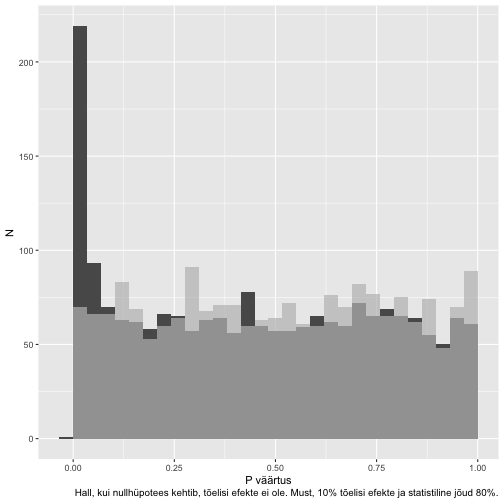
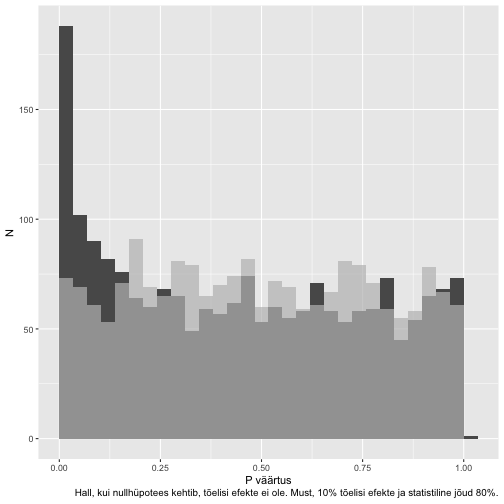
tõlge umbes poole peal

diff --git a/index.html b/index.html
@@ -12,7 +12,7 @@
 class: center, middle, inverse, title-slide
 
 # Oomikaeksperimentide kvaliteedi hindamine P väärtuste põhjal
-## e. Teadustegevuse jääkides sobramas
+## e. teadustegevuse jääkides sobramas
 ### Taavi Päll
 ### 26. mai 2018
 
@@ -20,6 +20,12 @@ class: center, middle, inverse, title-slide
 
 
 
+
+class: inverse, middle, center
+
+# Sissejuhatus
+
+---
 
 ## Müra vs signaal
 
@@ -33,30 +39,53 @@ class: center, middle, inverse, title-slide
 
 ## Top table
 
-- Oomika eksperimendid jõuavad teaduspublikatsioonidesse peamiselt nn. *top* tabelitena artikli lisades, kus on välja toodud mingi väike hulk enim muutunud tunnuseid/geene    
+- Seoses teaduspublikatsioonide kallutatusega, kus teavitatakse ainult nn "edukatest" eksperimentidest, presenteeritakse ka oomika eksperimente teaduspublikatsioonides peamiselt nn. *top* tabelitena artikli lisades, kus on välja toodud mingi väike hulk enim muutunud tunnuseid/geene või geene mida teadlased on suutnud mingilgi moel interpreteerida ja oma mudelisse sobitada
 
 - Peamiseks tulemuseks on üks-kaks geeni, mis on "edukalt" läbinud ka valideerimise ortogonaalsetes katsetes    
 
 --
 
-- Tundub huvitav.., kas tasuks replitseerida&lt;sup&gt;1&lt;/sup&gt;? 
+- Tulemused tunduvad huvitavad..., kas tasuks replitseerida&lt;sup&gt;1&lt;/sup&gt;? 
+- Kuidas hinnata sellise eksperimendi kvaliteeti, kus on testitud paralleelselt tuhandeid hüpoteese?
+
 
 .footnote[[1] Replitseerimine -- uute andmete korjamine kontrollimaks teaduslikke väiteid. Reprodutseerimine keskendub eelkõige andmete analüüsi korratavus. Reprodutseeritavus toetab, kuid ei taga teaduslike väidete paikapidavust.]
 
 ---
 
-## 
+## QC checklist
 
-- This makes it desirable to first estimate in silico, which studies are worth replicating in the lab, and how to best replicate them
+- Reprodutseeritavus: kas andmed on reanalüüsiks kasutatavad   
+
+- Vastavus (NIH GEO) andmebaasi deponeerimise reeglitega?     
+
+- Kui palju (GEO) andmesette sisaldab ka P väärtuste tabeleid?     
+
+- P histogrammid – kui palju katseid on hästi/halvasti disainitud või analüüsitud?
 
 ---
 
-## QC checklist
+class: inverse, middle, center
 
-- Reprodutseeritavus: kas andmed on reanalüüsiks kasutatavad
-- Vastavus NIH GEO andmebaasi deponeerimise reeglitega?
-- Kui palju GEO andmesette sisaldab ka P väärtuste tabeleid?
-- P histogrammid – kui palju katseid on hästi/halvasti disainitud või analüüsitud?
+# P väärtused
+
+---
+
+## P väärtused on ühtlase jaotusega
+
+- P väärtused on disainitud olema ühtlase jaotusega, selleks et kontrollida valepositiivsete arvu ehk tüüp 1 viga
+
+--
+
+- Juhuslike P väärtuste jaotus tuleneb [järgmisest seosest](https://stats.stackexchange.com/questions/10613/why-are-p-values-uniformly-distributed-under-the-null-hypothesis#10617), tingimusel kui T on juhuslik muutuja kumulatiivse jaotusega `\(F(T) \equiv Pr(T&lt;t)\)` kõigi t väärtuste korral ja F on pööratav:
+
+`$$Pr(P&lt;p) = Pr(F(T)&lt;p) = Pr(T&lt;F^{-1}(p)) = F(F^{-1}(p)) = p$$`
+
+--
+
+- Ühtlase jaotuse eeldused:
+      - nullhüpotees kehtib
+      - tegemist on pideva jaotusega
 
 ---
 
@@ -64,11 +93,6 @@ class: center, middle, inverse, title-slide
 
 &lt;img src="index_files/figure-html/unnamed-chunk-1-1.png" style="display: block; margin: auto;" /&gt;
 
-???
-
-Ühtlane jaotus 0 ja 1 vahel sisaldab nö null p väärtuseid.
-
-That peak close to 0 is where your alternative hypotheses live- along with some potential false positives. If we split this up into nulls and alternatives, it might look like this:
 
 ---
 
@@ -86,65 +110,87 @@ Image credit: [Variance explained](http://varianceexplained.org/statistics/inter
 
 ---
 
+background-image: url(img/ncbi-geo.png)
+background-size: cover
+class: middle, center
+
+
+# Sekveneerimisandmed NIH Entrez andmebaasis
+
+---
+
 ## HT-seq andmekogude arv NIH andmebaasis kasvab kiiresti
 
-- We queried the NCBI GEO database for "expression profiling by high throughput sequencing"
-- Query retrieved 13575 datasets, first set was published at 2017-06-19
-- 68% of GEO data sets (9194) contain data from mouse or human origin
-- 88% of human and mouse data sets are linked to their primary publication. 
-- The proportion of datasets with publications is lower when other taxa are used as model organisms 78%
+- Me otsisime NCBI GEO andmebaasist andmesette kasutatdes otsingusõna "expression profiling by high throughput sequencing"
+- Tulemuseks leidsime 13575 andmekogu, millest esimene publitseeriti 2017-06-19
+- 68% GEO andmekogudest (9194) sisaldavad inimese või hiire järjestusi
 
-&lt;img src="img/fig1.png" width="50%" style="display: block; margin: auto;" /&gt;
+&lt;img src="img/fig1.png" width="60%" style="display: block; margin: auto;" /&gt;
 
 ---
 
-For the human and mouse subset, we were able to identify supplementary files for 100% (13560) of GEO series.
-The data sets lacking public supplementary files nevertheless show 73% publication rate (95%CI, 44.9% to 92.2%) which is similar to data sets with supplementary files.
+## GEO andmebaasi reeglid
+
+- GEO arhiivil on kolm kohustuslikku komponenti: 
+      1. metaandmed, 
+      1. protsessitud andmed 
+      1. toorandmed
+
+- Protsessitud andmed sisaldavad minimaalselt näiteks kas toor või normaliseeritud sekventside arvu, või ChIP-Seq eksperimentide korral nn. piigifaile (peak files)
 
 ---
 
-## Compliance with GEO database submission requirements
+## Publitseerimine ja lisafailid
 
-- GEO archive has three required components: 
-      1. metadata, 
-      1. processed data, and 
-      1. raw data. 
+- 88% inimese või hiire andmekogudest on seotud ka primaarse publikatsiooniga 
+      - Teiste mudelorganismide puhul on see protsent mõnevõrra madalam: 78%
+      
+- Peaaegu kõik GEO andmekogud (13560/13575) sisaldavad lisafaile (supplementary files)
 
-- Minimally, processed files are required to contain raw or normalized sequence read counts, or peak files of ChIP-Seq data
+- Neid väheseid andmekogusid, millel puuduvad ülesse laaditud lisafailid, publitseeritakse vaatamata sellele küllalt hästi 73% publication rate (95%CI, 44.9% to 92.2%) which is similar to data sets with supplementary files.
 
----
-
-## Most common file names 
-
-- 'RAW.tar' archive and associated automatically generated 'filelist.txt' are the most common files
-- 'RAW.tar' archive contains one file per sample and samples can be directly mapped to metadata by using sample name
-- Other common files contain annotations, 'readme.txt' and processed data: commonly sequence read counts, gene expression analysis results or ChIP-Seq peak counts.
-
-&lt;img src="img/fig2.png" width="60%" style="display: block; margin: auto;" /&gt;
 
 ---
 
-## Which files contain P values?
+## Kõige tavalisemad lisafilinimed
 
-- Sequence read counts can be either as raw read counts or normalised read counts. 
-      - Gene expression analysis of HT-seq data is commonly performed by fitting models to discrete sequence read count data 
-      - Normalised sequence read counts are used for plotting and visual evaluation of the analysis results, but cannot be used to directly reproduce gene expression analysis
+- 'RAW.tar' arhiiv ja sellega seotud 'filelist.txt' on kõige tavalisemad
+- 'RAW.tar' sisaldab ühte faili proovi kohta ja need failid on üle failinime seotud metaandmetega
+- Teised tavalisemad failinimed on annotatsioonid, 'readme.txt' ja protsessitud andmed: tavaliselt sekventsi arvud, geeniekspressiooni analüüsi tulemused (P väärtused!) ja ChIP-Seq *peak counts*id.
 
-- Tables containing top-ranked genes/features (top tables) from gene expression analysis with complete set of raw P values allow direct evaluation of the data and analysis quality underlying tested hypothesis.
+&lt;img src="img/fig2.png" width="75%" style="display: block; margin: auto;" /&gt;
 
-- We excluded from downloading binary files, annotations, raw data, graphics, and other non tabular formats
+---
+
+## Missugused failid sisaldavad P väärtuseid?
+
+Praktilistest kaalutlustest lähtuvalt ei tahtnud me kõiki oma seti 34136 GEO lisafaili alla laadida. Pidime tegema valikuid.
+
+- Sekventsijärjestuste arvu esitatakse lisafailides kas toorandmetena (positiivsed täisarvud, diskreetne jaotus) või juba normaliseerituna (pidev jaotus) 
+      - HT-seq andmete põhjal analüüsitakse geeniekspressiooni tavaliselt kasutades toorandmeid 
+      - Normaliseeritud andmeid kasutatakse ainult visualiseerimiseks, kuid need ei sobi differentiaalse ekspressiooni analüüsi reprodutseerimiseks
+
+&gt; Sellised tablid mis sisaldavad juba eksprssioonianalüüsi tulemusi koos adjusteerimata P väärtustega võimaldavad otsest kvaliteedi kontrolli
+
+- Me välistasime pildifailid, binaarsed failid vms. failiformaadid mille puhul võis ennustada, et see ei sisalda kindlasti P väärtusi 
 
 ---
 
 ## Filter
 
-- File filtering reduced the number of files by 60% and GEO series by 51%   
+- Failide filtreerimine vähendas failide arvu ~60% ja GEO seeriate arvu 51%   
    
-- Downloaded dataset consisted 13526 files from 6660 GEO series
+- Alla laadidav andmesett koosnes 13526 failist 6660 GEO seeriast
 
 &lt;img src="img/fig5.png" style="display: block; margin: auto;" /&gt;
 
 .footnote[Arrows from left to right, (1) GEO sets with supplementary files, (2) filter out RAW.tar and filelist.txt files from supplementary file names, (3) supplementary files with flat table formats that were downloaded, (4) tables with p values. Number of p value sets is the number of sets with &gt;4000 features.]
+
+---
+
+class: inverse, middle, center
+
+# Tulemused
 
 ---
 
@@ -181,7 +227,9 @@ The data sets lacking public supplementary files nevertheless show 73% publicati
 
 ---
 
-[Tabel](spark.html)
+## Ebainformatiivsete geenide filtreerimine parandab histogrammide kvaliteeti
+
+- [Tabel](spark.html)
     </textarea>
 <script src="https://remarkjs.com/downloads/remark-latest.min.js"></script>
 <script>var slideshow = remark.create({
